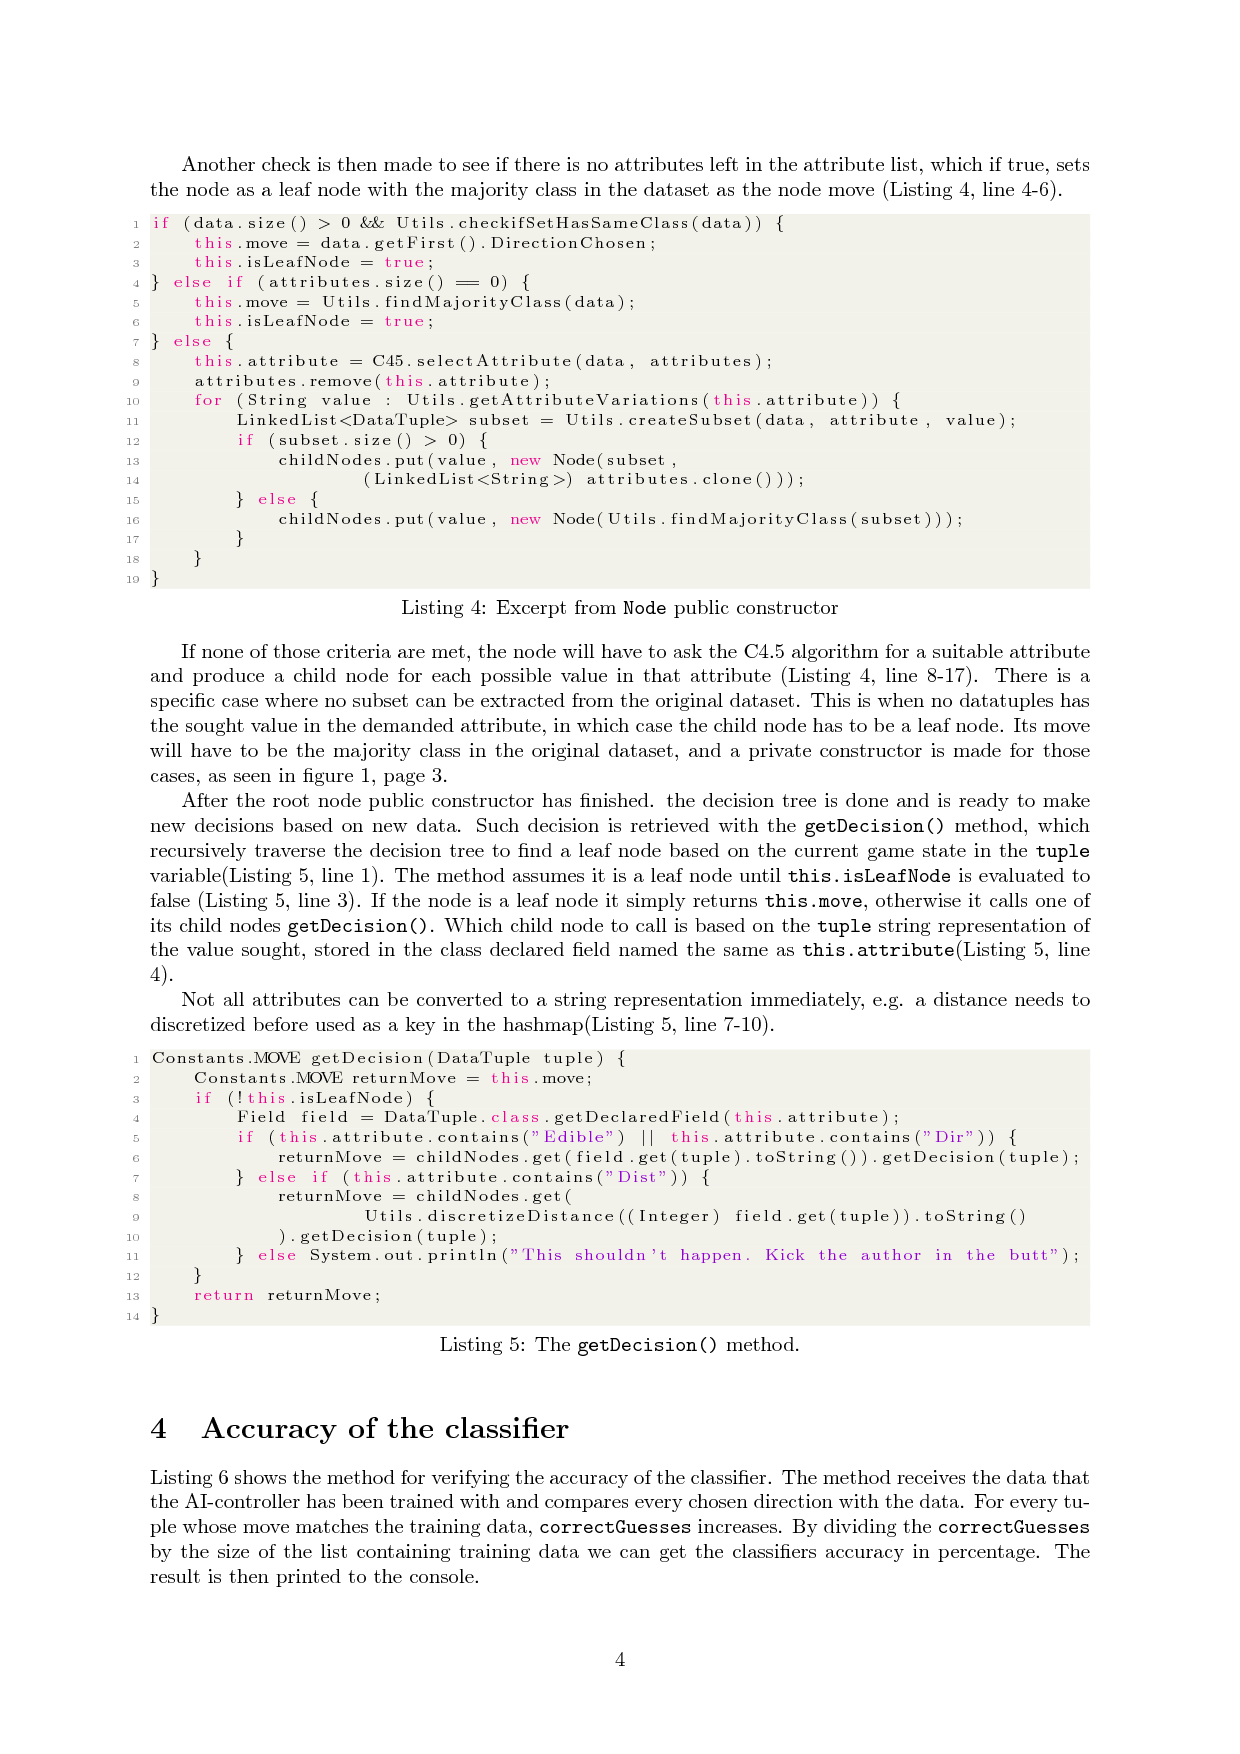
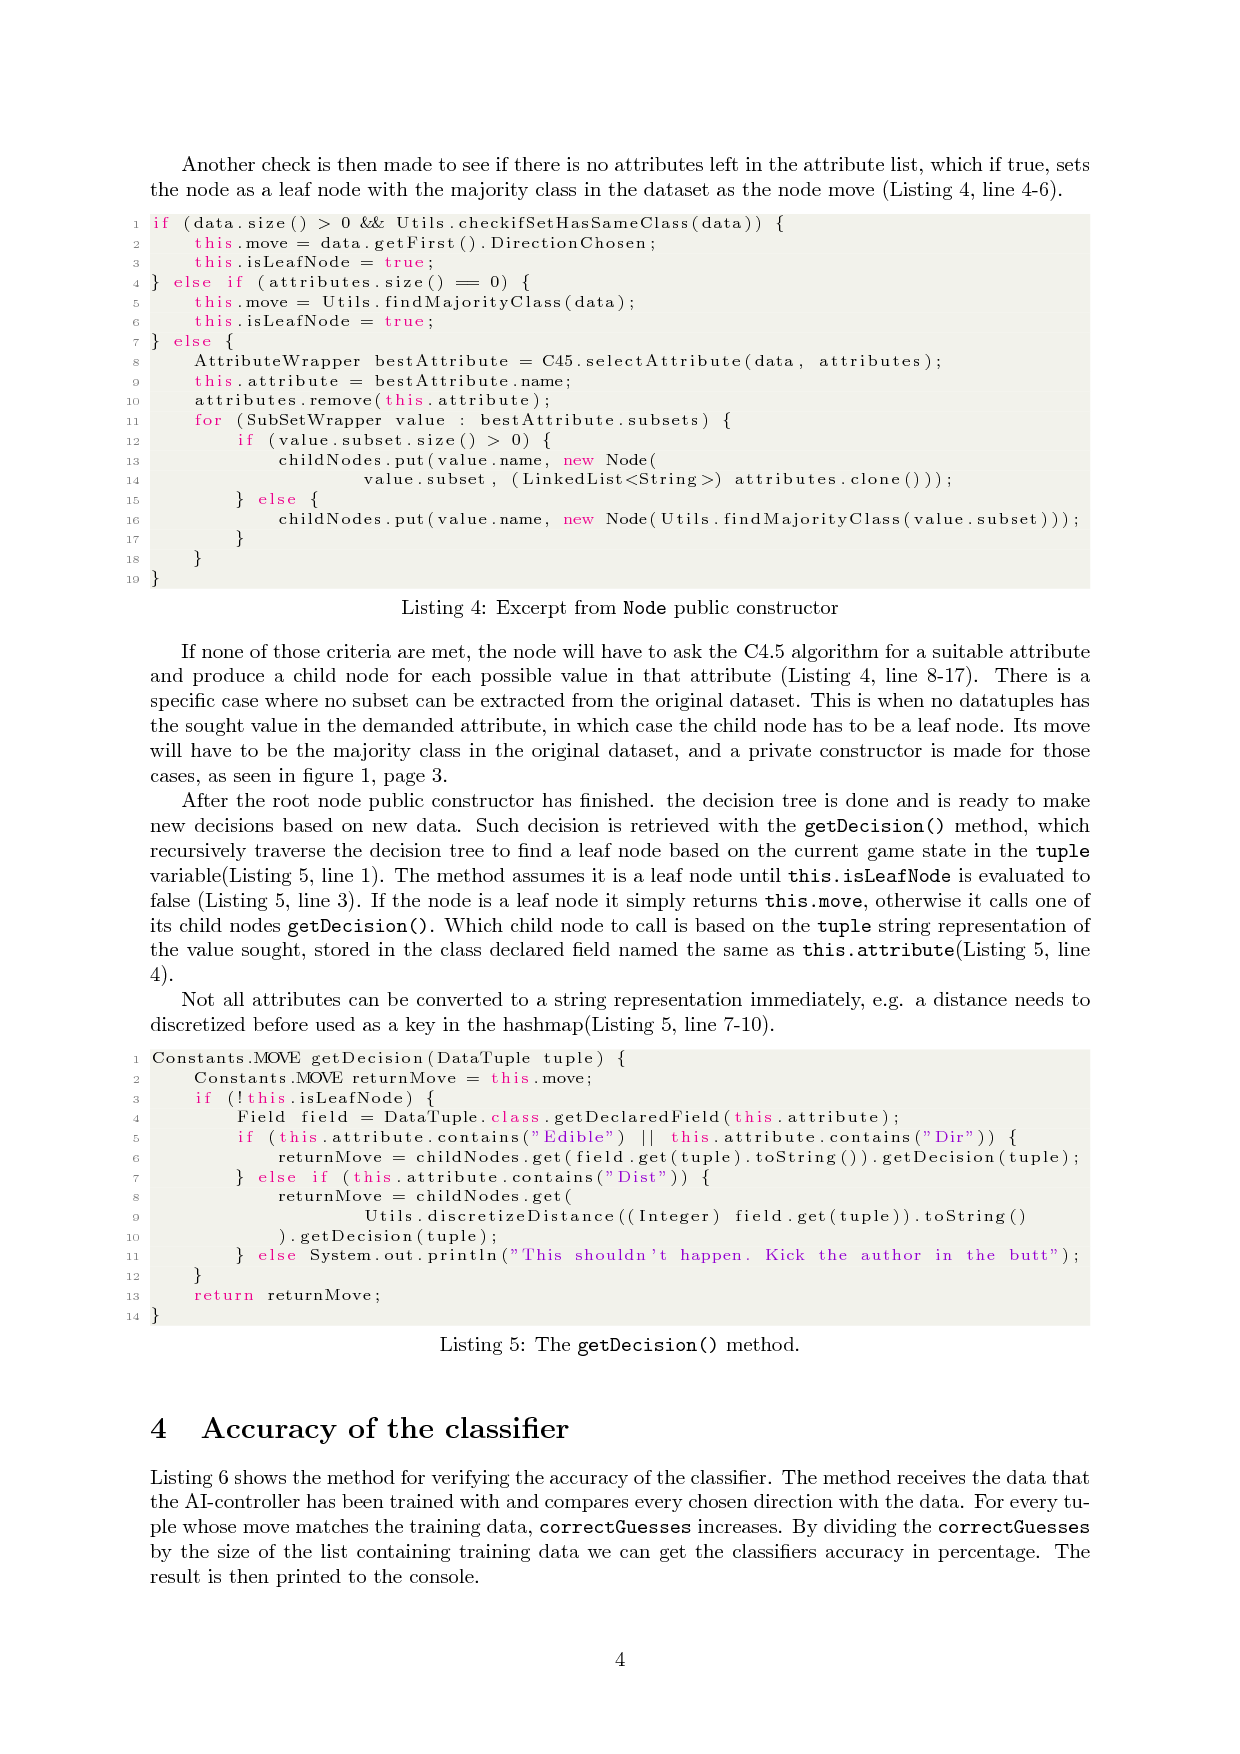
PACMAN PAPER

Changed region(s): [[0.1532, 0.1847, 0.6435, 0.3079], [0.5823, 0.2771, 0.6435, 0.3079]]

diff --git a/assignment_2/PacMan_assignment.tex b/assignment_2/PacMan_assignment.tex
@@ -117,7 +117,7 @@ The learning algorithms main purpose is to create a decision tree that is able t
 
     \SaveVerb{term}|C45.selectAttribute()|
     \begin{lstlisting}[language=Java, caption=Method declaration of \protect\UseVerb{term}, label={attribute}, escapechar=|]
-public static String selectAttribute(
+public static AttributeWrapper selectAttribute(
             LinkedList<DataTuple> dataList,
             LinkedList<String> attributes) {
     |\dots|
@@ -146,7 +146,7 @@ private static double calculateInfoD(LinkedList<DataTuple> dataTuples) {
     return infoD;
 }\end{lstlisting}
 
-    Both are static and holds no state between method calls. The \verb|selectAttribute()| method simply returns the name of the most rewarding attribute in a string and the \verb|calculateInfoD()| method returns a \verb|double| value derived of equation \ref{infoD}.
+    Both are static and holds no state between method calls. The \verb|selectAttribute()| method returns a wrapper of the most rewarding attribute in a string and the \verb|calculateInfoD()| method returns a \verb|double| value derived of equation \ref{infoD}.
     \begin{equation} \label{infoD}
     Info(D)=-\sum_{i=1}^{m}p_i log_2(p_i)
     \end{equation}
@@ -181,7 +181,8 @@ double infoD = calculateInfoD(dataList); |\label{infoDCalc}|
 for (String attr : attributes) { |\label{forEveryAttr}|
     |\dots|
     for (String value : Utils.getAttributeVariations(attr)) {
-        subset = Utils.createSubset(dataList, field, value); |\label{infoADCalcStart}|
+        LinkedList<DataTuple> subset = Utils.createSubset(dataList, attr, value); |\label{infoADCalcStart}|
+        attrWrapper.addSubset(new SubSetWrapper(value, subset));
         infoAD += ((double) subset.size() / (double) dataList.size()) *
                                                     calculateInfoD(subset); |\label{infoADCalcEnd}|
         if(subset.size() > 0) {                                             |\label{splitInfoADStart}|
@@ -221,15 +222,15 @@ if (data.size() > 0 && Utils.checkifSetHasSameClass(data)) { |\label{check1}|
     this.move = Utils.findMajorityClass(data);
     this.isLeafNode = true; |\label{check2end}|
 } else {
-    this.attribute = C45.selectAttribute(data, attributes); |\label{nodeElseStart}|
+    AttributeWrapper bestAttribute = C45.selectAttribute(data, attributes);|\label{nodeElseStart}|
+    this.attribute = bestAttribute.name;
     attributes.remove(this.attribute);
-    for (String value : Utils.getAttributeVariations(this.attribute)) {
-        LinkedList<DataTuple> subset = Utils.createSubset(data, attribute, value);
-        if (subset.size() > 0) {
-            childNodes.put(value, new Node(subset,
-                    (LinkedList<String>) attributes.clone()));
+    for (SubSetWrapper value : bestAttribute.subsets) {
+        if (value.subset.size() > 0) {
+            childNodes.put(value.name, new Node(
+                    value.subset, (LinkedList<String>) attributes.clone()));
         } else {
-            childNodes.put(value, new Node(Utils.findMajorityClass(subset)));
+            childNodes.put(value.name, new Node(Utils.findMajorityClass(value.subset)));
         } |\label{nodeElseEnd}|
     }
 }
@@ -288,15 +289,7 @@ ROOT
 |   |   |   |-> "isBlinkyEdible" = true:
 |   |   |   |   |-> "pinkyDist" = HIGH:
 |   |   |   |   |   |-> "inkyDist" = HIGH:
-|   |   |   |   |   |     -> Return NEUTRAL
-|   |   |   |   |   |-> "inkyDist" = LOW:
-|   |   |   |   |       |-> "blinkyDir" = DOWN:
-|   |   |   |   |       |   |-> "inkyDir" = DOWN:
-|   |   |   |   |       |   |   |-> "blinkyDist" = HIGH:
-|   |   |   |   |       |   |   |   |-> "sueDir" = DOWN:
-|   |   |   |   |       |   |   |   |   |-> "isInkyEdible" = true:
-|   |   |   |   |       |   |   |   |   |   |-> "sueDist" = HIGH:
-|   |   |   |   |       |   |   |   |   |   |     |-> Return DOWN
+|   |   |   |   |   |     |-> Return NEUTRAL
 
 ...
 
